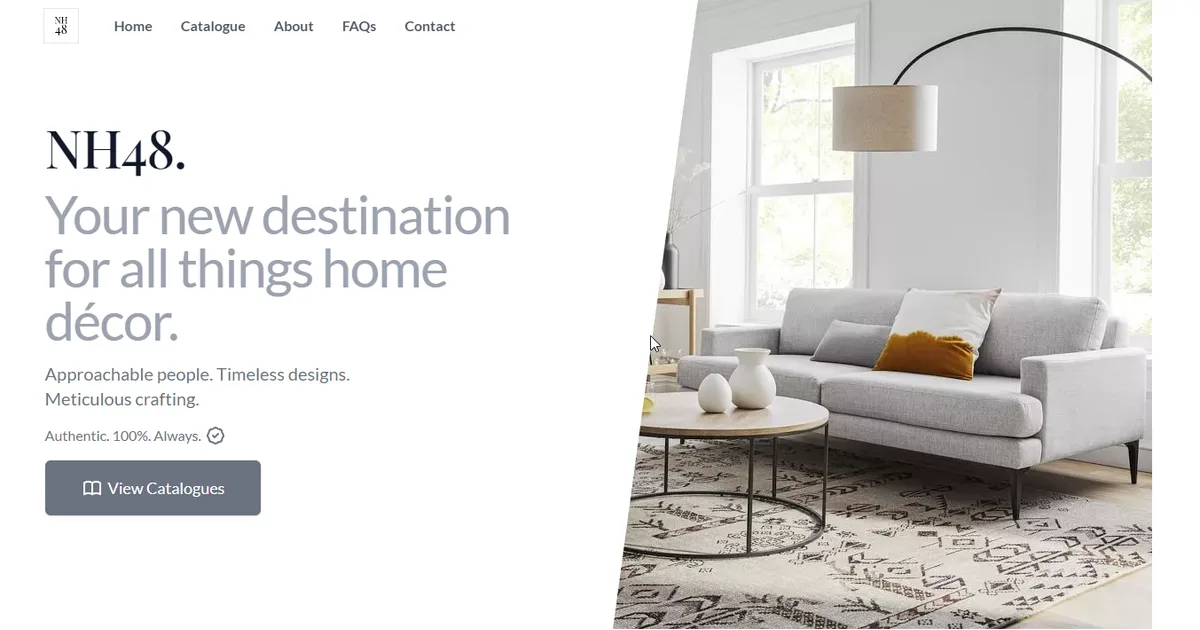
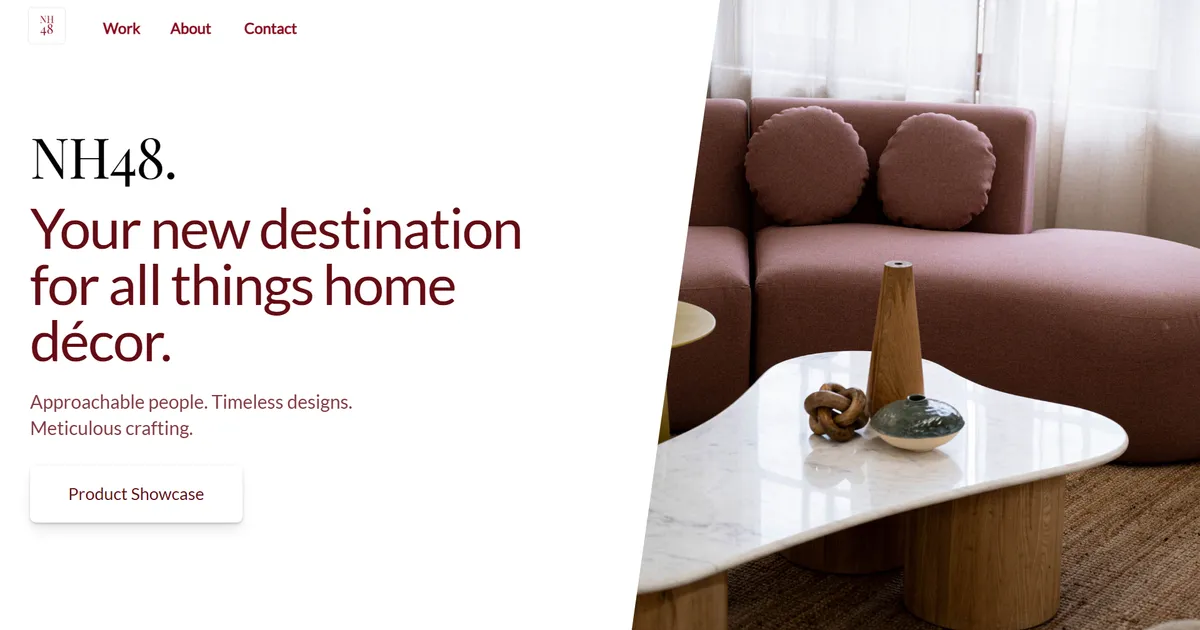
fix(projects): point NH48 at the demo deployment
nh48.in still resolves, but the card should link to the demo build. Thumbnail
regenerated from the new URL so the screenshot matches what the link opens.

Claude-Session: https://claude.ai/code/session_011k3M7nj3wYzFQEhFG6MMHm

diff --git a/content/projects/17-nh48-furniture.md b/content/projects/17-nh48-furniture.md
@@ -2,7 +2,7 @@
 name: "NH48 Furniture Website"
 slug: "nh48-furniture"
 githubLink: "https://github.com/rahulmourya336/code-name-nh48"
-demoLink: "https://nh48.in/"
+demoLink: "https://code-name-nh48-demo.vercel.app/"
 thumbnail: "/projects/NH48_thumbnail.webp"
 tags:
   - React.js
